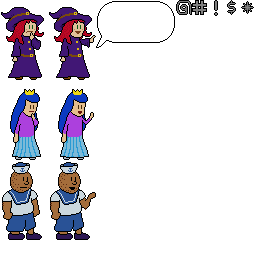
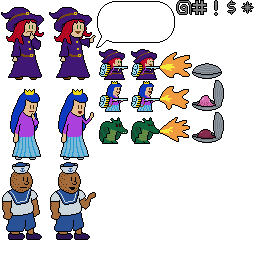
clam baking contest

Changed region(s): [[0.375, 0.1875, 0.875, 0.5625]]

diff --git a/src/game/battle/battle_clambaking.c b/src/game/battle/battle_clambaking.c
@@ -1,0 +1,311 @@
+/* battle_clambaking.c
+ */
+
+#include "game/batsup/battle_internal.h"
+
+struct battle_clambaking {
+  struct battle hdr;
+  
+  struct player {
+    int who; // My index in this list.
+    int human; // 0 for CPU, or the input index.
+    double skill; // 0..1, reverse of each other.
+    uint32_t color;
+    uint8_t tileid;
+    uint8_t xform;
+    int x,y;
+    int burning;
+    int blackout;
+    double flameclock;
+    int flameframe;
+    int open;
+    double score; // 0..1
+    double uprate; // score/sec, added while burning and open
+    double downrate; // score/sec positive, subtracted while burning and closed
+    double clamclock;
+    double cpuattnclock; // CPU only looks at the clam at discrete intervals.
+    double cpuattnlo,cpuattnhi;
+  } playerv[2];
+};
+
+#define BATTLE ((struct battle_clambaking*)battle)
+
+/* Delete.
+ */
+ 
+static void _clambaking_del(struct battle *battle) {
+}
+
+/* Set the clam clock.
+ */
+ 
+static void clambaking_random_clam_time(struct player *player) {
+  player->clamclock=0.700+((rand()&0xffff)*1.500)/65535.0;
+}
+
+/* Init player.
+ */
+ 
+static void player_init(struct battle *battle,struct player *player,int human,int face) {
+  player->x=100;
+  player->y=100;
+  if (player==BATTLE->playerv) { // Left.
+    player->who=0;
+  } else { // Right.
+    player->who=1;
+    player->x=FBW-player->x;
+    player->xform=EGG_XFORM_XREV;
+  }
+  
+  player->uprate=0.300*(1.0-player->skill)+0.350*player->skill;
+  player->downrate=0.400*(1.0-player->skill)+0.300*player->skill;
+  
+  if (player->human=human) { // Human.
+    player->blackout=1;
+  } else { // CPU.
+    if (battle->args.lctl||battle->args.rctl) { // cpu penalty
+      player->uprate*=0.800;
+      player->downrate*=1.100;
+    }
+    player->cpuattnhi=1.200*(1.0-player->skill)+0.400*player->skill;
+    player->cpuattnlo=player->cpuattnhi*0.5;
+  }
+  switch (face) {
+    case NS_face_monster: {
+        player->color=0x0f663cff;
+        player->tileid=0x76;
+      } break;
+    case NS_face_dot: {
+        player->color=0x411775ff;
+        player->tileid=0x36;
+      } break;
+    case NS_face_princess: {
+        player->color=0x0d3ac1ff;
+        player->tileid=0x56;
+      } break;
+  }
+  clambaking_random_clam_time(player);
+}
+
+/* New.
+ */
+ 
+static int _clambaking_init(struct battle *battle) {
+  battle_normalize_bias(&BATTLE->playerv[0].skill,&BATTLE->playerv[1].skill,battle);
+  player_init(battle,BATTLE->playerv+0,battle->args.lctl,battle->args.lface);
+  player_init(battle,BATTLE->playerv+1,battle->args.rctl,battle->args.rface);
+  return 0;
+}
+
+/* Update human player.
+ */
+ 
+static void player_update_man(struct battle *battle,struct player *player,double elapsed,int input) {
+  if (player->blackout) {
+    if (!(input&EGG_BTN_SOUTH)) player->blackout=0;
+  } else {
+    player->burning=(input&EGG_BTN_SOUTH)?1:0;
+  }
+}
+
+/* Update CPU player.
+ */
+ 
+static void player_update_cpu(struct battle *battle,struct player *player,double elapsed) {
+  /* CPU's play is perfect, except it only examines the clam at random intervals.
+   * Creates the appearance of human-like inattention.
+   */
+  if (player->cpuattnclock>0.0) {
+    player->cpuattnclock-=elapsed;
+    return;
+  }
+  double n=(rand()&0xffff)/65535.0;
+  player->cpuattnclock+=player->cpuattnlo*(1.0-n)+player->cpuattnhi*n;
+  if (player->open) {
+    player->burning=1;
+  } else {
+    player->burning=0;
+  }
+}
+
+/* Update all players, after specific controller.
+ */
+ 
+static void player_update_common(struct battle *battle,struct player *player,double elapsed) {
+
+  if (battle->outcome>-2) {
+    player->burning=0;
+    return;
+  }
+  
+  if (player->burning) {
+    if ((player->flameclock-=elapsed)<=0.0) {
+      player->flameclock+=0.100+((rand()&0xffff)*0.100)/65535.0;
+      switch (player->flameframe) {
+        case 0: player->flameframe=(rand()&1)?1:2; break;
+        case 1: player->flameframe=(rand()&1)?0:2; break;
+        case 2: player->flameframe=(rand()&1)?0:1; break;
+      }
+    }
+    if (player->open) {
+      player->score+=player->uprate*elapsed;
+      // Let it exceed 1.
+    } else {
+      player->score-=player->downrate*elapsed;
+      if (player->score<0.0) player->score=0.0;
+    }
+  }
+  
+  if (battle->outcome==-2) {
+    if ((player->clamclock-=elapsed)<=0.0) {
+      clambaking_random_clam_time(player);
+      if (player->open) player->open=0;
+      else player->open=1;
+    }
+  }
+}
+
+/* Update.
+ */
+ 
+static void _clambaking_update(struct battle *battle,double elapsed) {
+  
+  struct player *player=BATTLE->playerv;
+  int i=2;
+  for (;i-->0;player++) {
+    if (battle->outcome==-2) {
+      if (player->human) player_update_man(battle,player,elapsed,g_input[player->human]);
+      else player_update_cpu(battle,player,elapsed);
+    }
+    player_update_common(battle,player,elapsed);
+  }
+  
+  /* Game ends when the first player reaches score one.
+   * Ties are possible but even less likely than you think, because we don't clamp at 1.
+   */
+  if (battle->outcome==-2) {
+    struct player *l=BATTLE->playerv;
+    struct player *r=l+1;
+    if ((l->score>=1.0)||(r->score>=1.0)) {
+      if (l->score>r->score) battle->outcome=1;
+      else if (l->score<r->score) battle->outcome=-1;
+      else battle->outcome=0;
+    }
+  }
+
+  //XXX
+  if (g_input[0]&EGG_BTN_AUX2) battle->outcome=1;
+}
+
+/* Render player.
+ */
+ 
+static void player_render(struct battle *battle,struct player *player) {
+  int x0=player->x-(NS_sys_tilesize>>1);
+  int y0=player->y-(NS_sys_tilesize>>1);
+  int x1,y1=y0+NS_sys_tilesize;
+  if (player->xform) {
+    x1=x0;
+    x0+=NS_sys_tilesize;
+  } else {
+    x1=x0+NS_sys_tilesize;
+  }
+  uint8_t tileid=player->tileid;
+  if (player->burning) tileid+=2;
+  graf_tile(g_graf,x0,y0,tileid+0x00,player->xform);
+  graf_tile(g_graf,x1,y0,tileid+0x01,player->xform);
+  graf_tile(g_graf,x0,y1,tileid+0x10,player->xform);
+  graf_tile(g_graf,x1,y1,tileid+0x11,player->xform);
+  
+  int c0=x1,c1;
+  if (player->xform) {
+    c0-=NS_sys_tilesize+(NS_sys_tilesize>>1);
+    c1=c0-NS_sys_tilesize;
+  } else {
+    c0+=NS_sys_tilesize+(NS_sys_tilesize>>1);
+    c1=c0+NS_sys_tilesize;
+  }
+  uint8_t ctile=0x3c;
+  if (player->score>=1.0) ctile+=0x40; // cooked
+  else if (player->open) ctile+=0x20;
+  graf_tile(g_graf,c0,y0,ctile+0x00,player->xform);
+  graf_tile(g_graf,c1,y0,ctile+0x01,player->xform);
+  graf_tile(g_graf,c0,y1,ctile+0x10,player->xform);
+  graf_tile(g_graf,c1,y1,ctile+0x11,player->xform);
+  
+  if (player->burning) {
+    int f0,f1;
+    if (player->xform) {
+      f0=x1-NS_sys_tilesize;
+      f1=f0-NS_sys_tilesize;
+    } else {
+      f0=x1+NS_sys_tilesize;
+      f1=f0+NS_sys_tilesize;
+    }
+    uint8_t ftile=0x3a;
+    switch (player->flameframe) {
+      case 1: ftile+=0x20; break;
+      case 2: ftile+=0x40; break;
+    }
+    graf_tile(g_graf,f0,y0,ftile+0x00,player->xform);
+    graf_tile(g_graf,f1,y0,ftile+0x01,player->xform);
+    graf_tile(g_graf,f0,y1,ftile+0x10,player->xform);
+    graf_tile(g_graf,f1,y1,ftile+0x11,player->xform);
+  }
+}
+
+/* Render.
+ */
+ 
+static void _clambaking_render(struct battle *battle) {
+  struct player *l=BATTLE->playerv;
+  struct player *r=l+1;
+  graf_fill_rect(g_graf,0,0,FBW,FBH,battle->ctab[BATTLE_COLOR_SKY]);
+  graf_set_image(g_graf,RID_image_battle_sea2);
+  player_render(battle,l);
+  player_render(battle,r);
+  
+  int barw=3;
+  int fullw=3+(barw<<1);
+  int fullx=(FBW>>1)-(fullw>>1);
+  int barh=40;
+  int fullh=barh+2;
+  int fully=30;
+  graf_fill_rect(g_graf,fullx,fully,fullw,fullh,0x000000ff);
+  {
+    int fillh=(int)(l->score*barh);
+    if (fillh>0) {
+      if (fillh>barh) fillh=barh;
+      graf_fill_rect(g_graf,fullx+1,fully+1+barh-fillh,barw,fillh,l->color);
+    }
+  }
+  {
+    int fillh=(int)(r->score*barh);
+    if (fillh>0) {
+      if (fillh>barh) fillh=barh;
+      graf_fill_rect(g_graf,fullx+1+barw+1,fully+1+barh-fillh,barw,fillh,r->color);
+    }
+  }
+}
+
+/* Type definition.
+ */
+ 
+const struct battle_type battle_type_clambaking={
+  .name="clambaking",
+  .objlen=sizeof(struct battle_clambaking),
+  .id=139,
+  .strix_name=442,
+  .no_article=0,
+  .no_contest=0,
+  .no_timeout=0,
+  .support_pvp=1,
+  .support_cvc=1,
+  .update_during_report=1,
+  .input=battle_input_a,
+  .imageid_default=RID_image_labyrinth,
+  .del=_clambaking_del,
+  .init=_clambaking_init,
+  .update=_clambaking_update,
+  .render=_clambaking_render,
+};

diff --git a/src/game/shared_symbols.h b/src/game/shared_symbols.h
@@ -598,6 +598,7 @@
 #define NS_battle_shovelling 136
 #define NS_battle_factoring 137
 #define NS_battle_imitation 138
+#define NS_battle_clambaking 139
 #define FOR_EACH_battle \
   _(fishing) \
   _(chopping) \
@@ -736,7 +737,8 @@
   _(invading) \
   _(shovelling) \
   _(factoring) \
-  _(imitation)
+  _(imitation) \
+  _(clambaking)
 
 /* "fld" are single bits.
  */

diff --git a/src/game/modal/modal_arcade.c b/src/game/modal/modal_arcade.c
@@ -8,7 +8,7 @@
 
 #include "game/bellacopia.h"
 
-#define PRESELECT_BATTLE NS_battle_imitation
+#define PRESELECT_BATTLE NS_battle_clambaking
 
 #define ROWC 20 /* FBH / font height */
 #define KEY_REPEAT_INITIAL 0.250
